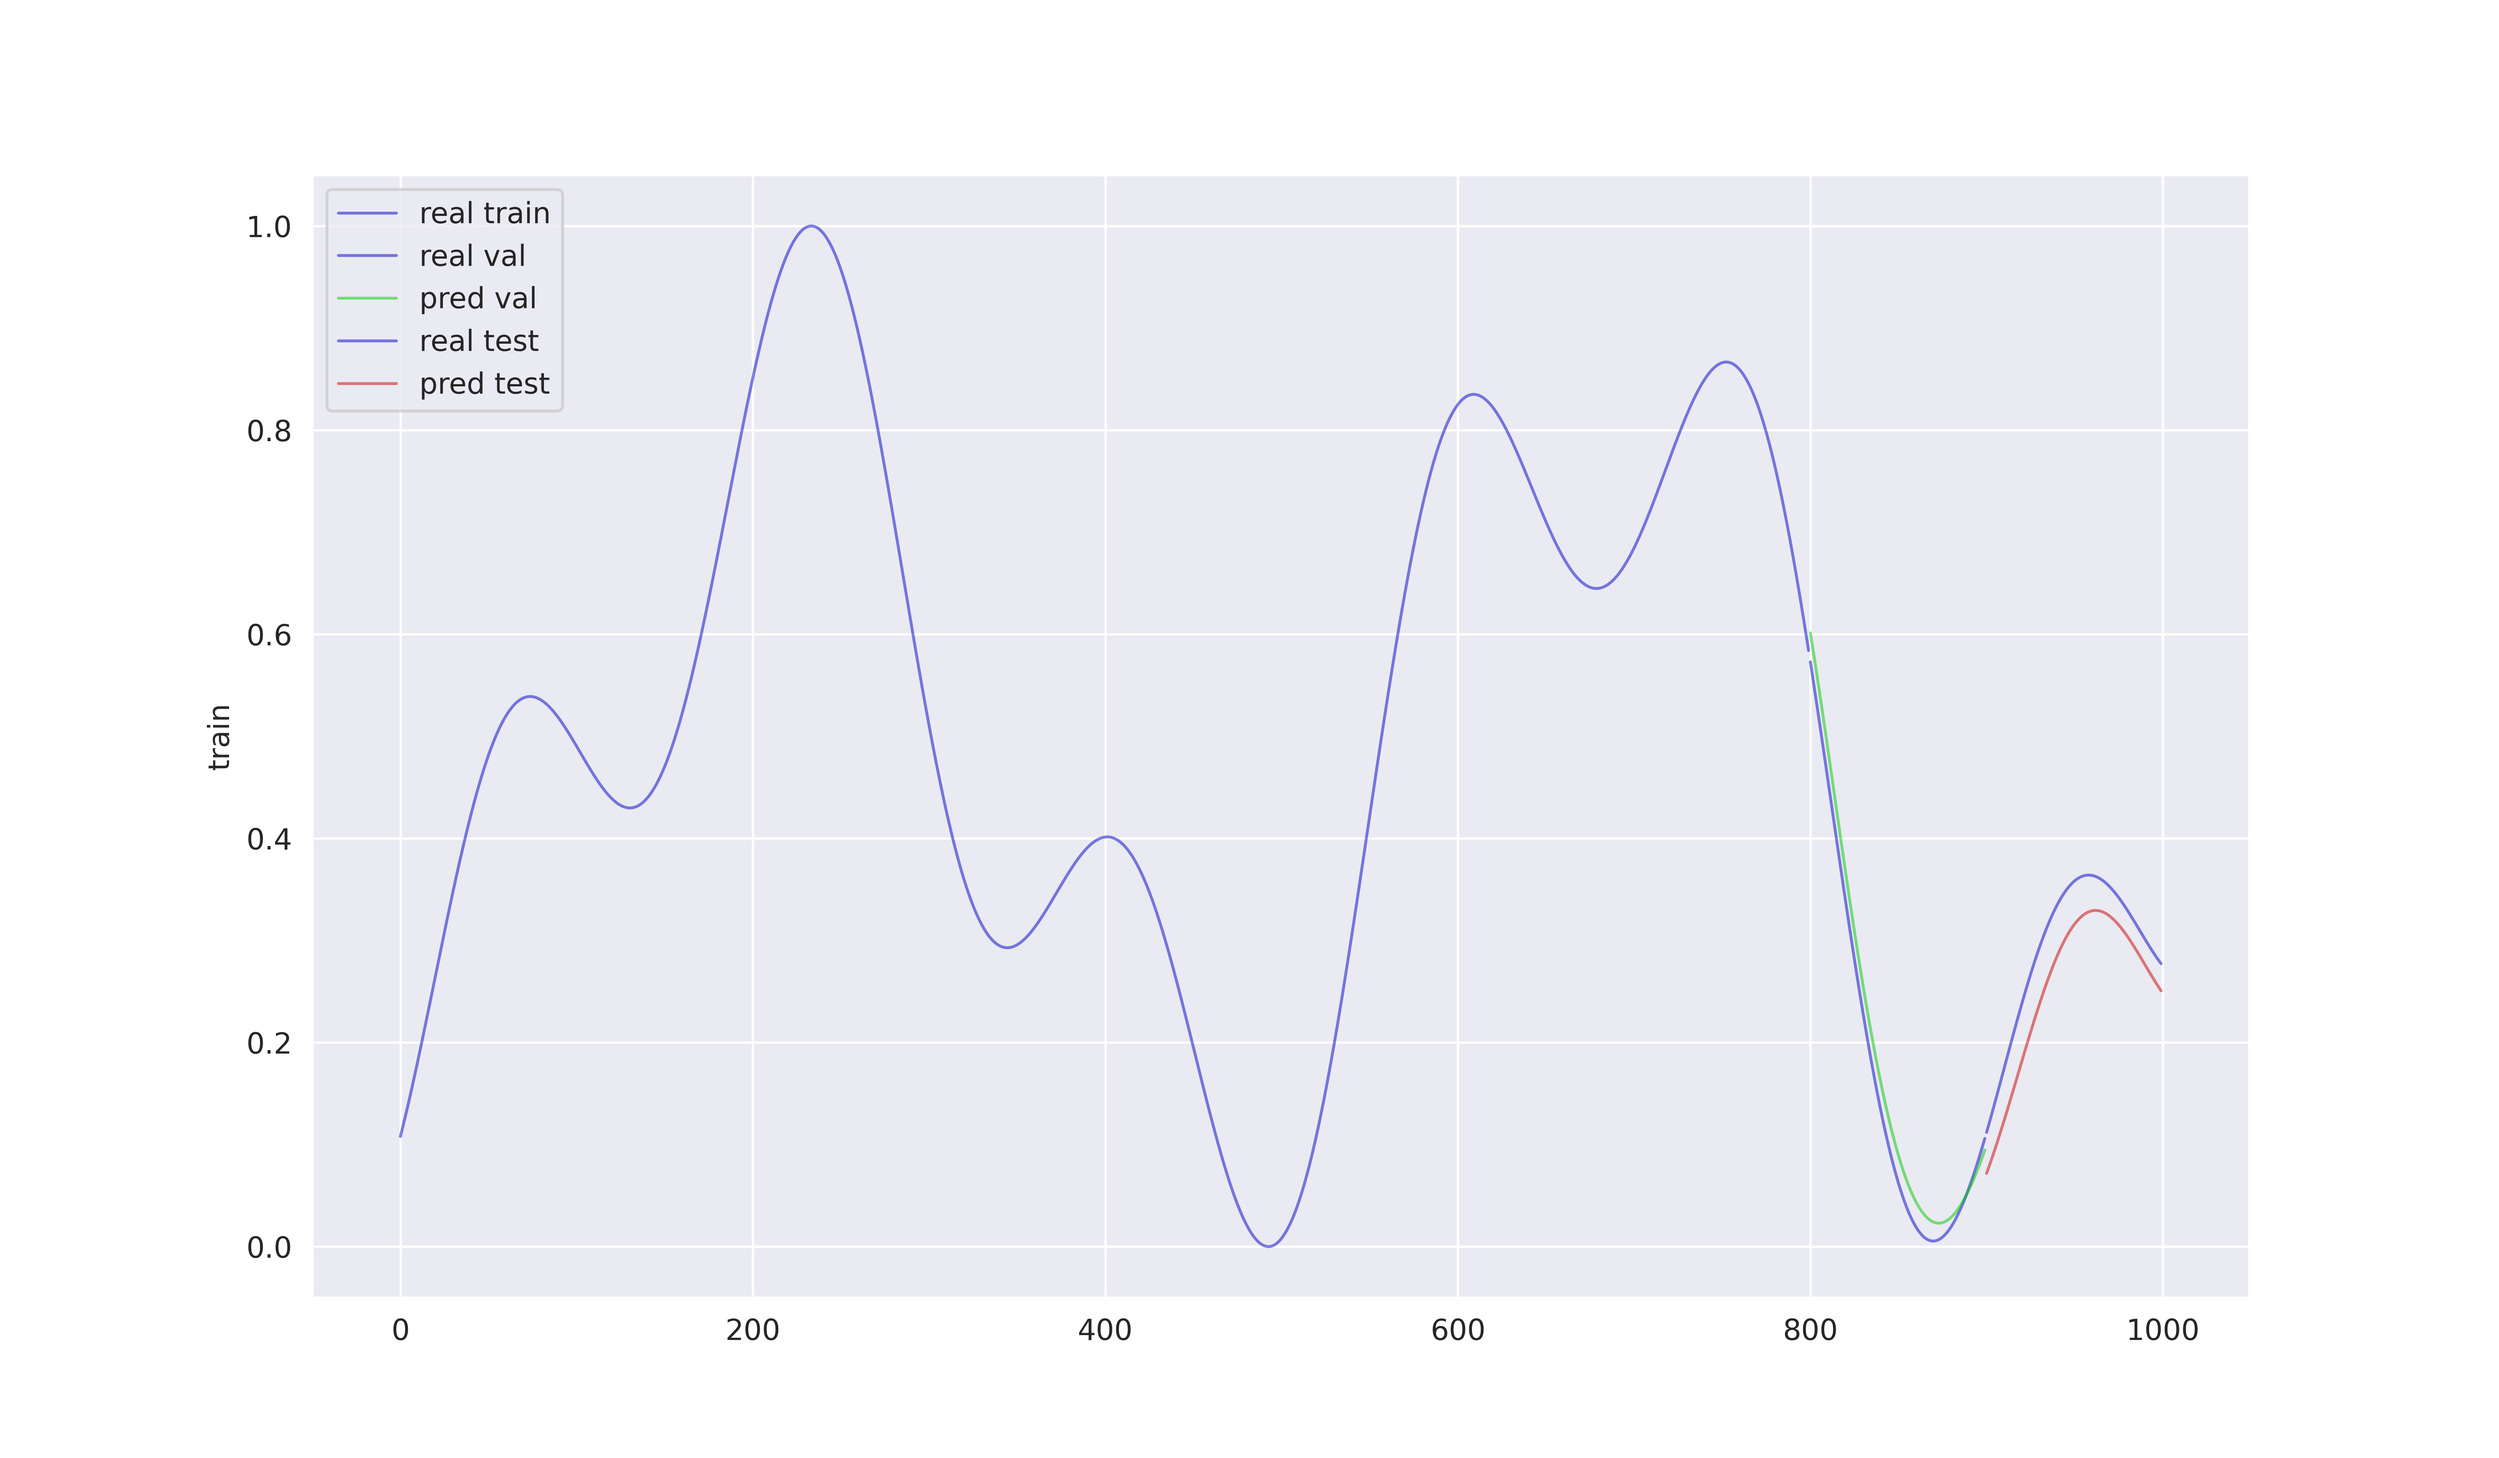
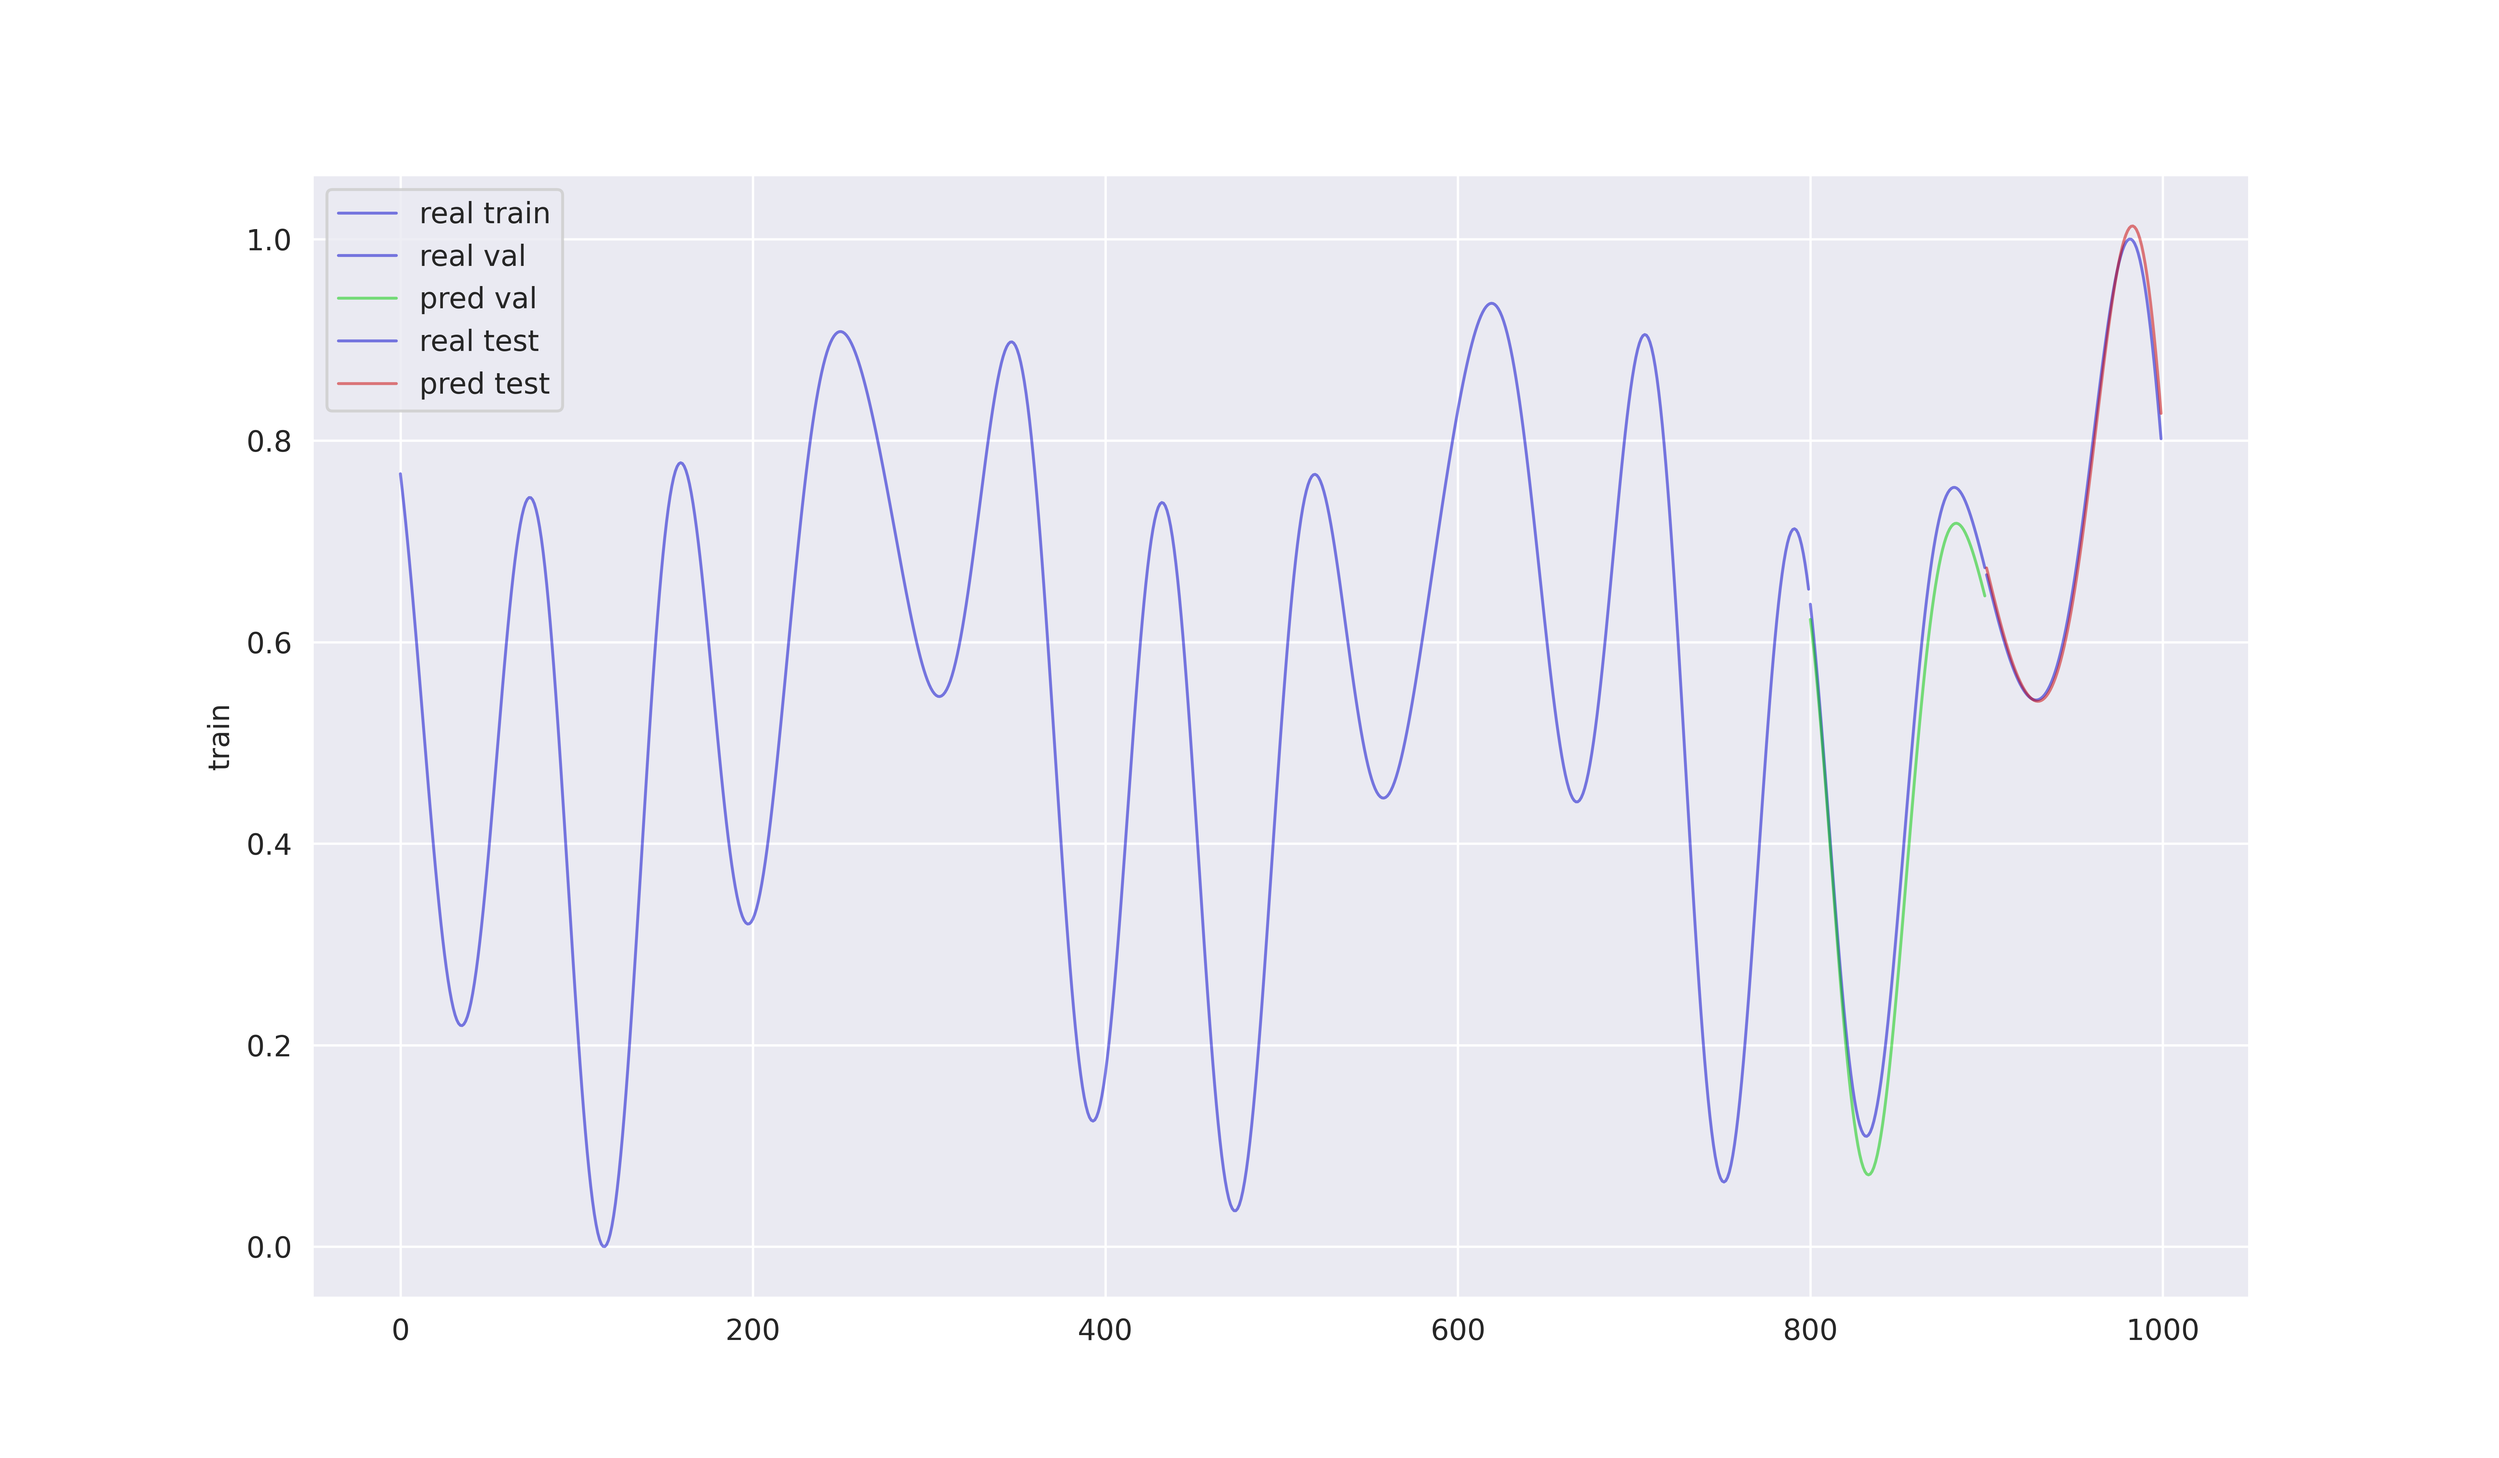
add changes for entrophy

diff --git a/entrophy.py b/entrophy.py
@@ -1,15 +1,12 @@
-from utils import get_params, get_model_val_loss, get_sample_entropy
+from utils import get_params, get_model_test_loss, get_sample_entropy
 from data.data import Data
 from plotting.plot import plot_linear_regressions
 
 
 trainer_params = get_params("lstm_params.yaml")
 
-data_params = {
-    "size": 1000,
-    "category": "piecewise_linear",
-    "lookback": trainer_params["lookback"],
-}
+data_params = {"size": 1000, "seed": 44, "config": {"repeating": {"period": 3}}}
+data_params["lookback"] = trainer_params["lookback"]
 
 max_difficulty = 100
 repeats = 10
@@ -17,12 +14,12 @@ repeats = 10
 results = {}
 for difficulty in range(1, max_difficulty + 1):
     print(f"{difficulty} ", end="", flush=True)
-    data_params["difficulty"] = difficulty
+    data_params["config"]["repeating"]["period"] = difficulty
     losses, entropies = [], []
     for i in range(repeats + 1):
-        train_df, val_df = Data(**data_params).get(split=(0.8, 0.2))
-        entropies.append(get_sample_entropy(train_df, val_df, m=10, tau=0))
-        losses.append(get_model_val_loss(train_df, val_df, trainer_params))
+        train_df, val_df, test_df = Data(**data_params).get(split=(0.8, 0.1, 0.1))
+        entropies.append(get_sample_entropy(train_df, val_df, test_df, m=10, tau=0))
+        losses.append(get_model_test_loss(train_df, val_df, test_df, trainer_params))
 
     results[difficulty] = {
         "entropy": sum(entropies) / len(entropies),

diff --git a/trainer/trainer.py b/trainer/trainer.py
@@ -90,7 +90,8 @@ class Trainer:
             else:
                 patience_counter += 1
                 if patience_counter >= self.__patience:
-                    print(f"Early stopping triggered after {epoch + 1} epochs")
+                    if info:
+                        print(f"Early stopping triggered after {epoch + 1} epochs")
                     break
 
             if info:
@@ -106,12 +107,14 @@ class Trainer:
     def test(self, x_test, info=True):
         x_test = torch.tensor(x_test.values, dtype=torch.float)
         test_dataset = SlidingWindowDataset(x_test, self.__lookback + 1)
-        test_dl = DataLoader(test_dataset, batch_size=len(test_dataset), shuffle=False)
+        test_loader = DataLoader(
+            test_dataset, batch_size=len(test_dataset), shuffle=False
+        )
 
         self.__model.eval()
 
         with torch.no_grad():
-            for batch_idx, (x_true, y_true) in enumerate(test_dl):
+            for batch_idx, (x_true, y_true) in enumerate(test_loader):
                 pred = self.__model(x_true)
                 loss = self.__loss(pred, y_true.view(y_true.shape[0], 1))
 

diff --git a/utils.py b/utils.py
@@ -23,14 +23,15 @@ def get_params(name):
         return yaml.safe_load(file)
 
 
-def get_model_val_loss(train_df, val_df, trainer_params):
+def get_model_test_loss(train_df, val_df, test_df, trainer_params):
     trainer = Trainer(**trainer_params)
-    trainer.train(train_df, info=False)
-    return trainer.val(val_df, info=False)
+    trainer.train(train_df, val_df, info=False)
+    test_loss, pred = trainer.test(test_df, info=False)
+    return test_loss
 
 
-def get_sample_entropy(train_df, val_df, m, tau):
-    X = pd.concat([train_df["values"], val_df["values"]]).to_numpy()
+def get_sample_entropy(train_df, val_df, test_df, m, tau):
+    X = pd.concat([train_df["values"], val_df["values"], test_df["values"]]).to_numpy()
     Samp, Phi1, Phi2 = EH.SampEn(X, m=10, **({} if tau == 0 else {"tau": tau}))
     mod_Sample = [0 if np.isinf(s) or np.isnan(s) else s for s in Samp]
     return sum(mod_Sample)

diff --git a/example_lstm.py b/example_lstm.py
@@ -7,7 +7,7 @@ trainer_params = get_params("lstm_params.yaml")
 lookback = trainer_params["lookback"]
 
 size = 1000
-seed = 41
+seed = 44
 config = {"multi_sinusoidal": {"num_sin": 3}}
 
 data = Data(size=size, seed=seed, config=config, lookback=lookback)

diff --git a/example_data.py b/example_data.py
@@ -1,7 +1,7 @@
 from data.data import Data
 from plotting.plot import plot_time_series
 
-size = 200
+size = 1000
 seed = 42
 config = {"multi_sinusoidal": {"num_sin": 2}, "noise": {"std_dev": 0.1}}
 
